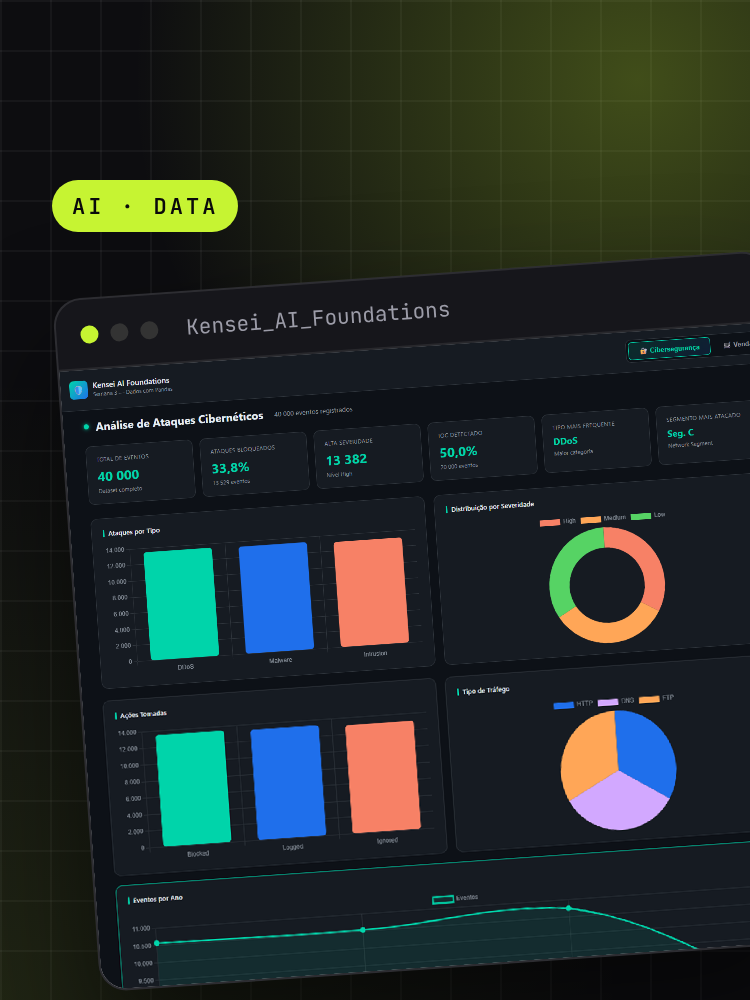
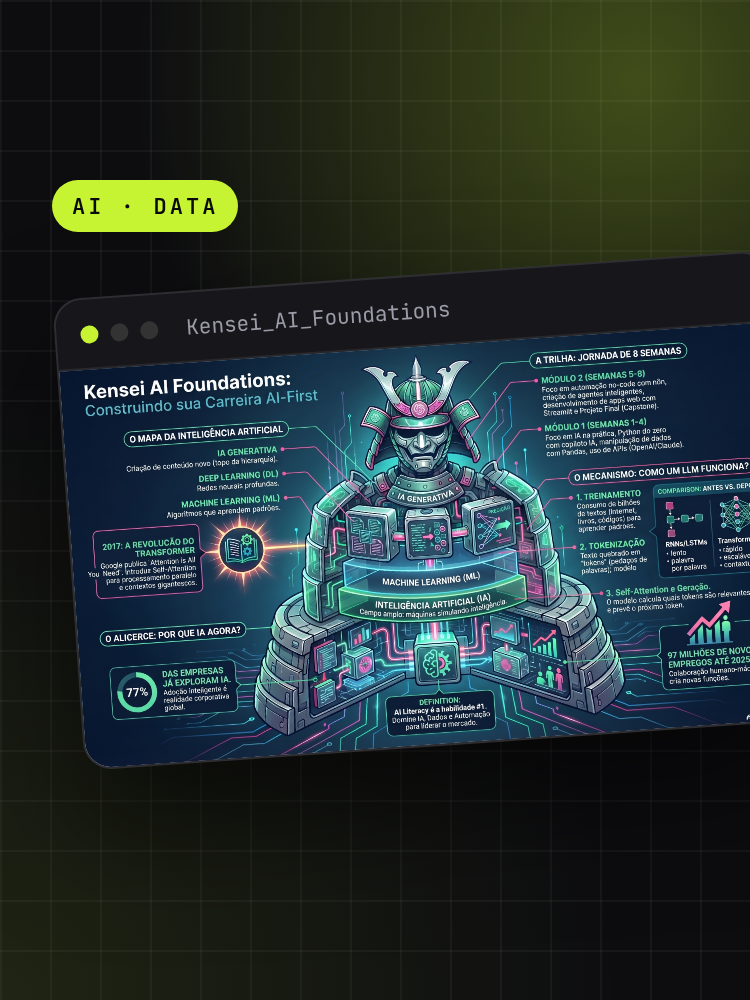
Remove o card HTML e CSS - Oracle ONE e troca a capa do Kensei AI Foundations
A capa do Kensei passa a usar o print da Aula Inaugural do repositório.
Cards renumerados e contador atualizado para 34.

Claude-Session: https://claude.ai/code/session_01P6UAmbTko93hFvc8inS2bz

diff --git a/index.html b/index.html
@@ -93,7 +93,7 @@
 
         <div class="cm-container">
           <ul class="cm-stats">
-            <li><strong><span class="cm-count" data-count="35">35</span><em>+</em></strong><span data-i18n="stat1">Featured projects</span></li>
+            <li><strong><span class="cm-count" data-count="34">34</span><em>+</em></strong><span data-i18n="stat1">Featured projects</span></li>
             <li><strong><span class="cm-count" data-count="17">17</span></strong><span data-i18n="stat2">CTF flags captured</span></li>
             <li><strong><span class="cm-count" data-count="3">3</span></strong><span data-i18n="stat3">Professional recommendations</span></li>
           </ul>
@@ -559,19 +559,6 @@
               <p data-i18n="p35Desc">Programming logic fundamentals with JavaScript in the Oracle ONE program, building a secret number game step by step.</p>
               <ul class="cm-tags"><li>JavaScript</li><li>HTML</li><li>CSS</li></ul>
               <a class="cm-card__link" href="https://github.com/ClaudioMendonca-Eng/Alura-Oracle-logicadeprog-JavaScript" target="_blank" rel="noopener"><span data-i18n="viewProject">View project</span> <i class="ri-arrow-right-up-line"></i></a>
-            </div>
-          </article>
-
-          <article class="cm-card" id="project30">
-            <a class="cm-card__media" href="https://github.com/ClaudioMendonca-Eng/Alura-Oracle-HTMLeCSS" target="_blank" rel="noopener" tabindex="-1" aria-hidden="true">
-              <img src="assets/images/projects-31.png" alt="" loading="lazy" width="375" height="500">
-            </a>
-            <div class="cm-card__body">
-              <span class="cm-card__num">35</span>
-              <h3 data-i18n="p30Title">HTML and CSS - Oracle ONE</h3>
-              <p data-i18n="p30Desc">First steps with HTML and CSS in the Oracle ONE program, building a portfolio page with semantic structure and styling.</p>
-              <ul class="cm-tags"><li>HTML</li><li>CSS</li><li>Vercel</li></ul>
-              <a class="cm-card__link" href="https://github.com/ClaudioMendonca-Eng/Alura-Oracle-HTMLeCSS" target="_blank" rel="noopener"><span data-i18n="viewProject">View project</span> <i class="ri-arrow-right-up-line"></i></a>
             </div>
           </article>
 

diff --git a/assets/js/main.js b/assets/js/main.js
@@ -76,8 +76,6 @@
 		p19Desc: 'Exercício em JavaScript que renderiza um array de objetos no HTML com map() e busca personagens dinamicamente na API do Rick and Morty.',
 		p20Title: 'Landing page a partir do Figma',
 		p20Desc: 'Landing page construída a partir de um layout no Figma com HTML5 e Sass, com foco em boas práticas e organização de arquivos, publicada na Vercel.',
-		p30Title: 'HTML e CSS - Oracle ONE',
-		p30Desc: 'Primeiros passos com HTML e CSS no programa Oracle ONE, construindo uma página de portfólio com estrutura semântica e estilização.',
 		p16Title: 'Cartão de Natal - Vai na Web',
 		p16Desc: 'Página interativa de Natal feita para o desafio da comunidade Vai na Web, com um cartão personalizado que pode ser baixado.',
 		p18Title: 'Desafio Python - Vai na Web',
